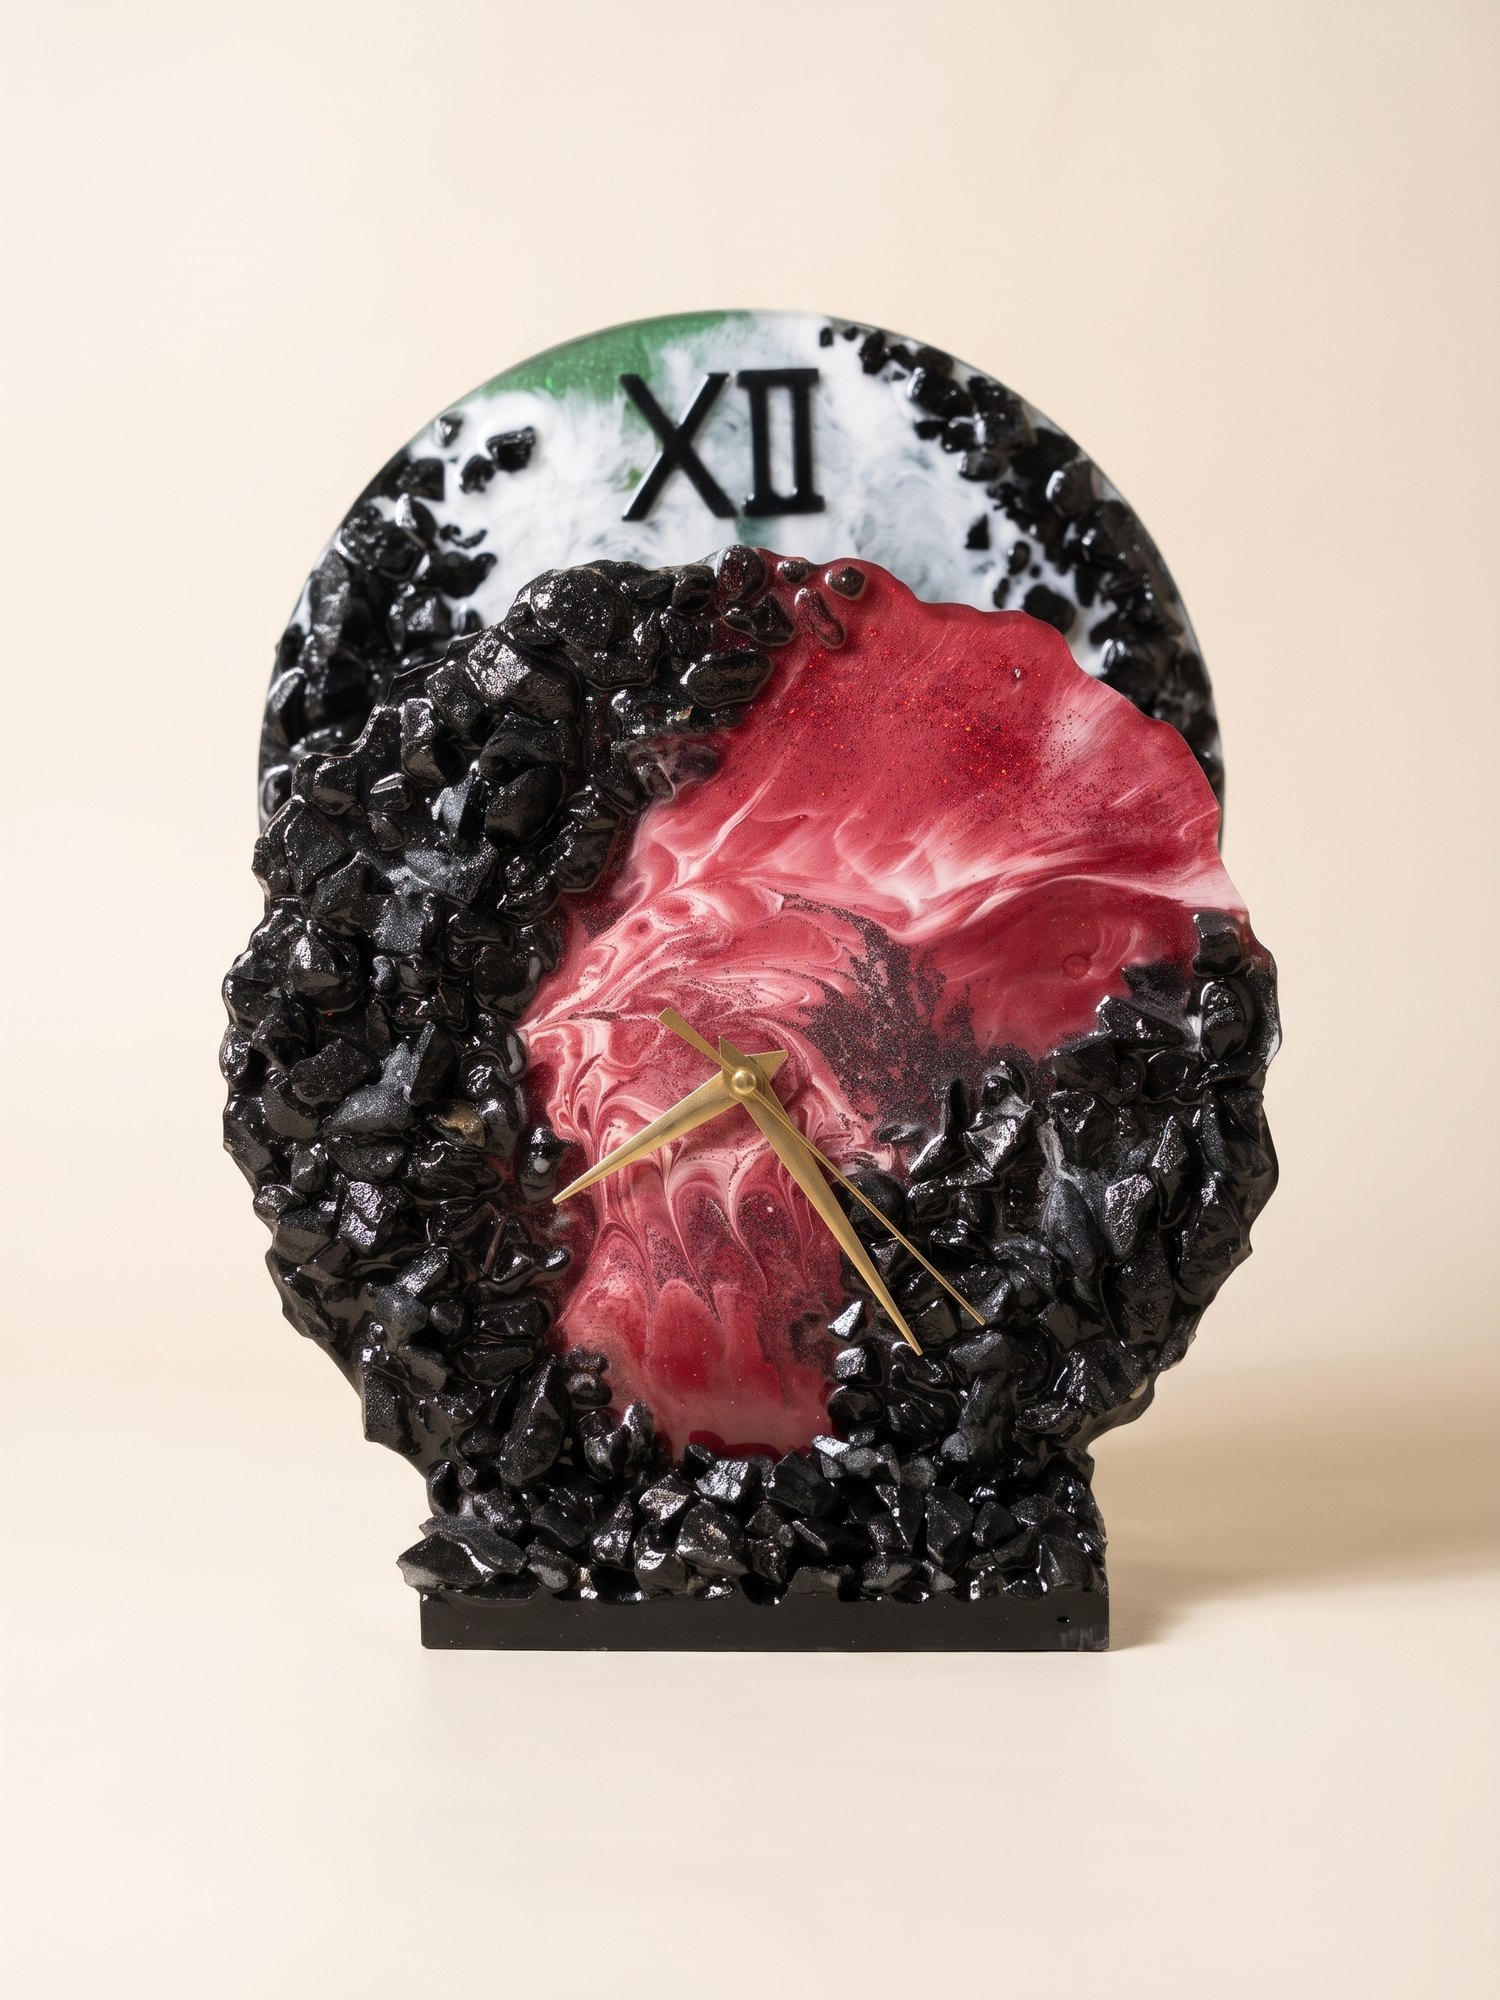
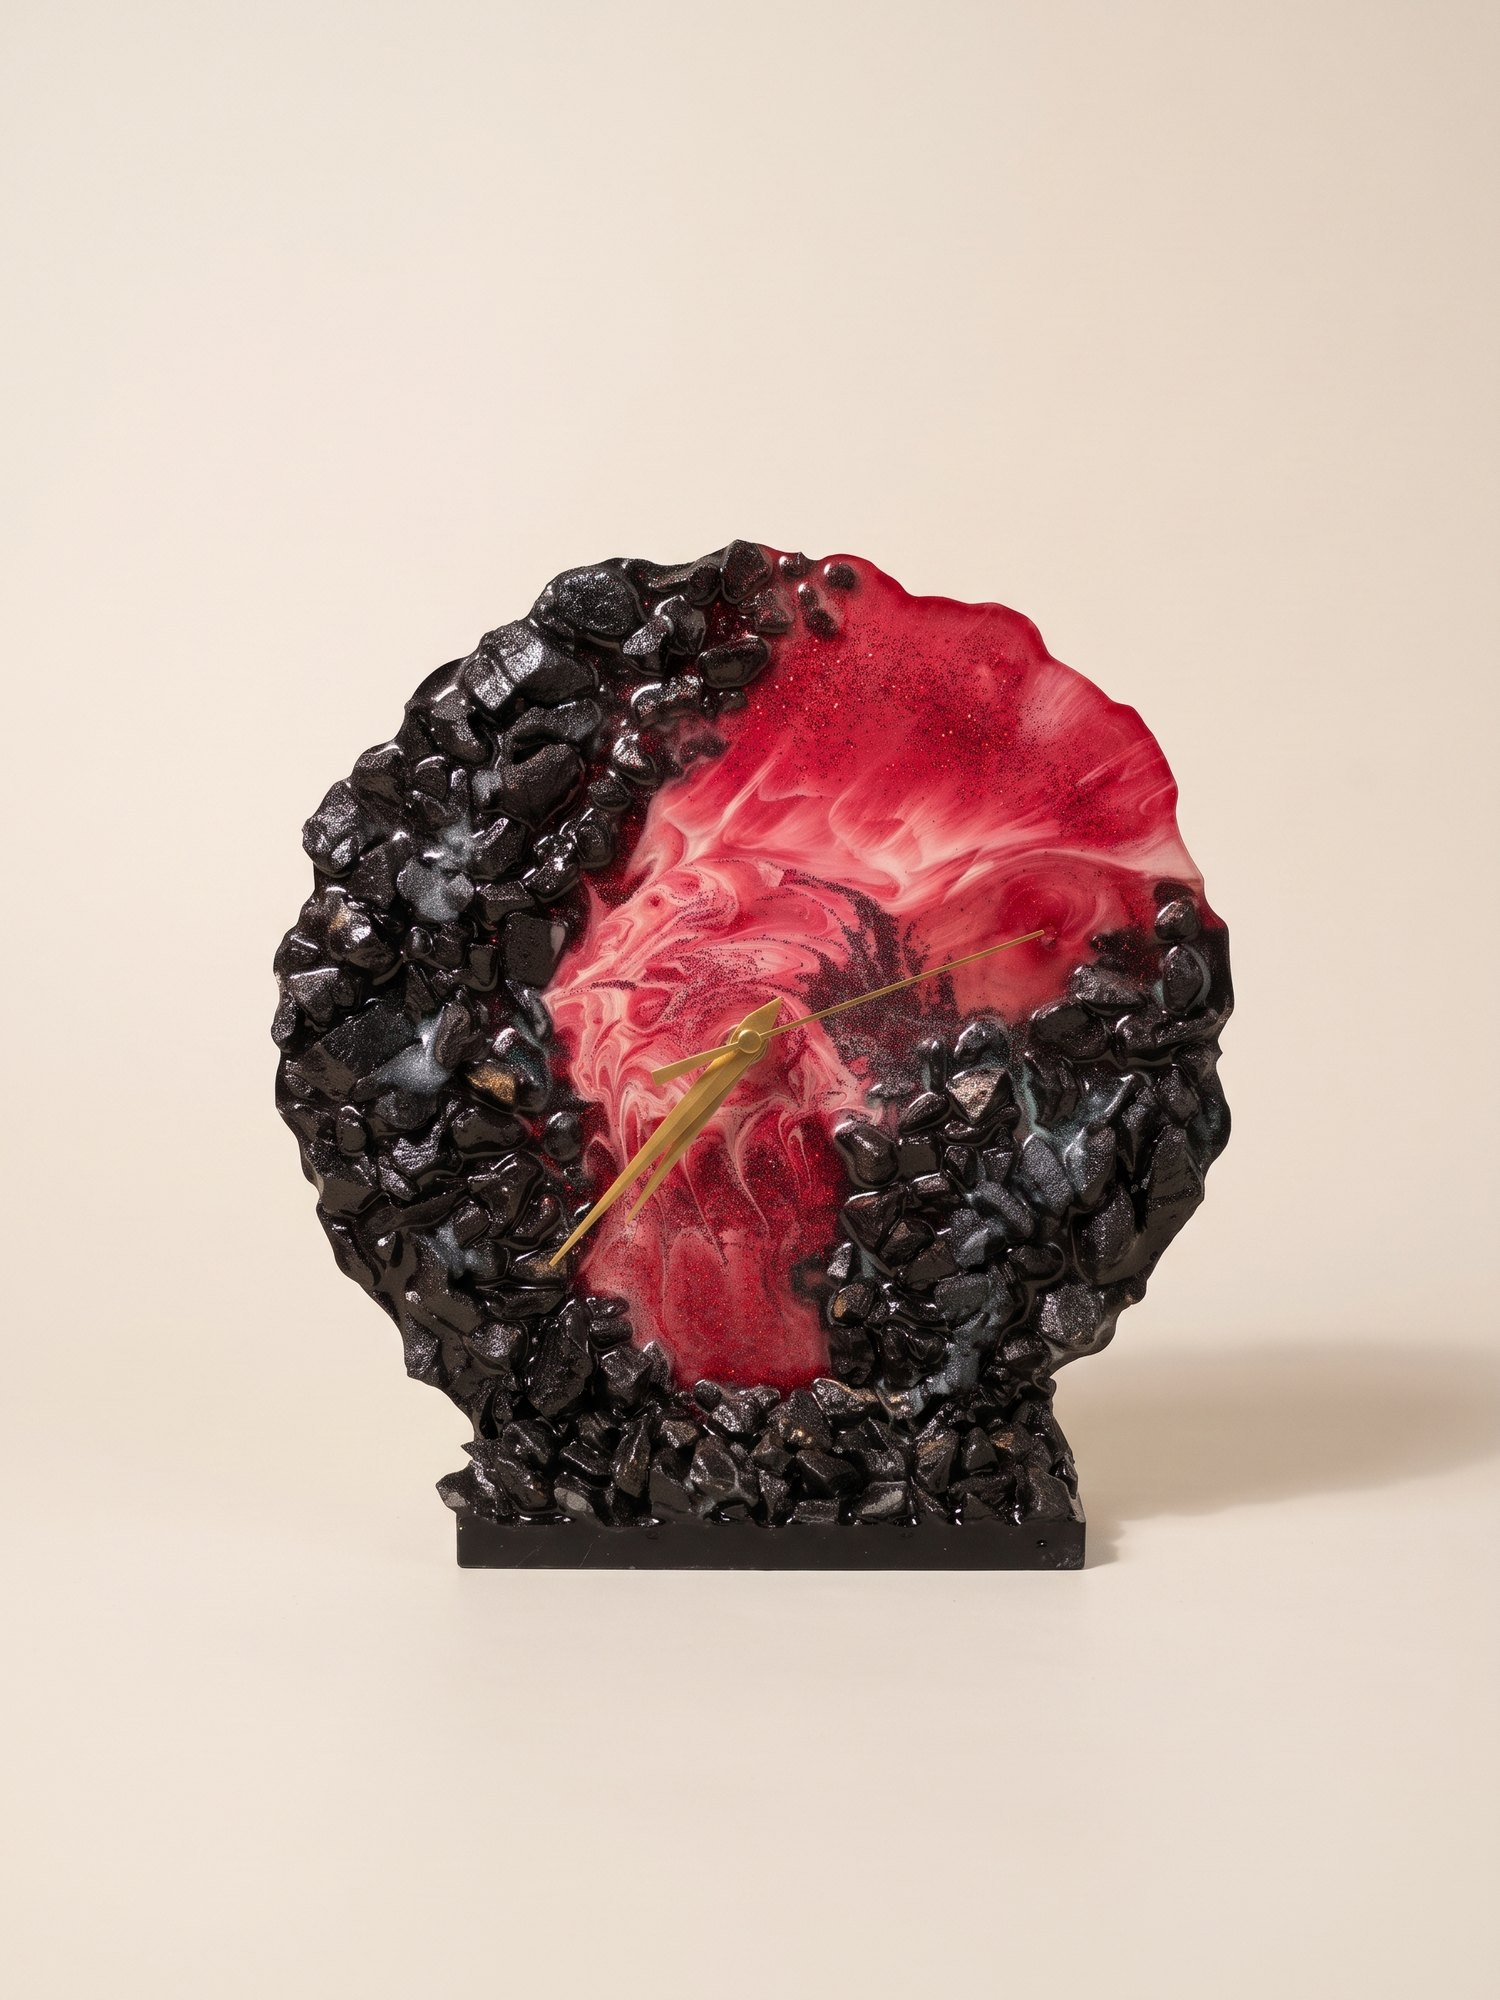
Replace generated designs with the real collection
Remove the five AI-invented placeholder clocks and add nine real pieces
(Žad, Mjesečina, Kronos, Biser, As, Meduza, Pomrčina, Krijesnice,
Pijesak) with studio shots made from the artist's photos. Rubin gets a
cleaner shot. Pomrčina and Krijesnice show both lit and unlit views.

Changed region(s): [[0.1227, 0.155, 1.0, 0.837]]

diff --git a/products.js b/products.js
@@ -52,64 +52,103 @@ window.TREN = {
       images: ["images/rubin-studio.jpg"],
     },
     {
-      id: "smaragd",
-      name: "Smaragd",
+      id: "zad",
+      name: "Žad",
       price: "",
       sold: false,
-      madeToOrder: true,
       desc: {
-        hr: "Okrugli sat od smaragdno zelene smole sa zlatnim žilama i polumjesecom crnog kamenja uz rub. Zlatne kazaljke i rimske brojke.",
-        en: "A round clock in emerald-green resin with gold veining and a crescent of black stones along the edge. Gold hands and Roman numerals.",
+        hr: "Stolni sat na postolju od tirkiznog stakla. Zelena i bijela smola, crno kamenje s obje strane. Crne rimske brojke i kazaljke.",
+        en: "A standing clock on a base of teal glass. Green and white resin with black stones down both sides. Black Roman numerals and hands.",
       },
-      images: ["images/smaragd-studio.jpg"],
+      images: ["images/zad-studio.jpg"],
     },
     {
-      id: "laguna",
-      name: "Laguna",
+      id: "mjesecina",
+      name: "Mjesečina",
       price: "",
       sold: false,
-      madeToOrder: true,
       desc: {
-        hr: "Tirkizno more s bijelom pjenom valova i pješčana obala s oblucima i školjkama. Bijele brojke i kazaljke.",
-        en: "A turquoise sea with white wave foam and a sandy shore with pebbles and shells. White numerals and hands.",
+        hr: "Zidni sat s punim mjesecom nad kobaltno plavim morem i tirkiznim granama. Crne rimske brojke i kazaljke, crvena sekundna kazaljka.",
+        en: "A wall clock with a full moon over a cobalt-blue sea and turquoise branches. Black Roman numerals and hands, red second hand.",
       },
-      images: ["images/laguna-studio.jpg"],
+      images: ["images/mjesecina-studio.jpg"],
     },
     {
-      id: "ametist",
-      name: "Ametist",
+      id: "kronos",
+      name: "Kronos",
       price: "",
       sold: false,
-      madeToOrder: true,
       desc: {
-        hr: "Sat u obliku presjeka geode: ljubičasta i bijela smola, prsten kristala i zlatni rub. Zlatne kazaljke, bez brojki.",
-        en: "A clock shaped like a geode slice: purple and white resin, a ring of crystals and a gold edge. Gold hands, no numerals.",
+        hr: "Zidni sat od crne smole sa zlatnim kapima, razlomljenim zlatnim brojčanikom, zupčanicima i zlatnim listićima. Zlatne kazaljke.",
+        en: "A wall clock in black resin with gold drips, a broken gold dial, gears and gold leaf. Gold hands.",
       },
-      images: ["images/ametist-studio.jpg"],
+      images: ["images/kronos-studio.jpg"],
     },
     {
-      id: "jantar",
-      name: "Jantar",
+      id: "biser",
+      name: "Biser",
       price: "",
       sold: false,
-      madeToOrder: true,
       desc: {
-        hr: "Ovalni stolni sat na crnom postolju. Smola boje jantara i meda s bakrenim listićima, uz rub tamno kamenje. Crne kazaljke.",
-        en: "An oval standing clock on a black base. Amber and honey resin with copper flakes, edged with dark stones. Black hands.",
+        hr: "Stolni sat od prozirne smole s valovitim rubom, zlatnom morskom zvijezdom i školjkama. Na postolju kristali i velika morska školjka. Crne kazaljke.",
+        en: "A standing clock in clear resin with a wavy edge, a gold starfish and shells. Crystals and a large seashell on the base. Black hands.",
       },
-      images: ["images/jantar-studio.jpg"],
+      images: ["images/biser-studio.jpg"],
     },
     {
-      id: "ponoc",
-      name: "Ponoć",
+      id: "as",
+      name: "As",
       price: "",
       sold: false,
-      madeToOrder: true,
       desc: {
-        hr: "Kvadratni sat od crne smole sa zlatnim listićima i bijelom bisernom rijekom, s bijelim kvarcom u kutu. Zlatne kazaljke.",
-        en: "A square clock in black resin with gold flakes and a river of white pearl, with white quartz in the corner. Gold hands.",
+        hr: "Stolni sat na crnom postolju. Mint zelena smola sa zlatnim žilama, četiri crna asa, kockice i crne perle. Crne rimske brojke i kazaljke.",
+        en: "A standing clock on a black base. Mint-green resin with gold veining, four black aces, dice and black beads. Black Roman numerals and hands.",
       },
-      images: ["images/ponoc-studio.jpg"],
+      images: ["images/as-studio.jpg"],
+    },
+    {
+      id: "meduza",
+      name: "Meduza",
+      price: "",
+      sold: false,
+      desc: {
+        hr: "Zidni sat na crnoj teksturiranoj podlozi: zlatna Meduza pod sjajnom smolom i reljefna zlatna zmija. Crni brojčanik sa zlatnim kazaljkama.",
+        en: "A wall clock on a black textured panel: a gold Medusa under glossy resin and a raised gold snake. Black dial with gold hands.",
+      },
+      images: ["images/meduza-studio.jpg"],
+    },
+    {
+      id: "pomrcina",
+      name: "Pomrčina",
+      price: "",
+      sold: false,
+      desc: {
+        hr: "Veliki zidni sat prekriven crnim kamenjem. Gore mjesečev brojčanik u zlatnom prstenu, dolje krug koji svijetli toplim zlatnim sjajem.",
+        en: "A large wall clock covered in black stones. A moon dial in a gold ring above, and below it a disc that lights up with a warm golden glow.",
+      },
+      images: ["images/pomrcina-svjetlo.jpg", "images/pomrcina-studio.jpg"],
+    },
+    {
+      id: "krijesnice",
+      name: "Krijesnice",
+      price: "",
+      sold: false,
+      desc: {
+        hr: "Zidna slika sa svjetlom: smaragdno zelena smola, spirala staklenih perli i fluorita te ugrađene lampice koje svijetle toplim sjajem.",
+        en: "Wall art with light: emerald-green resin, a spiral of glass beads and fluorite, and built-in lights with a warm glow.",
+      },
+      images: ["images/krijesnice-svjetlo.jpg", "images/krijesnice-studio.jpg"],
+    },
+    {
+      id: "pijesak",
+      name: "Pijesak",
+      price: "",
+      sold: false,
+      desc: {
+        hr: "Zidna slika: crna podloga, trake zlatnog pijeska i niz školjki u zlatu.",
+        en: "Wall art: a black panel with bands of gold sand and a line of gilded shells.",
+      },
+      images: ["images/pijesak-studio.jpg"],
     },
   ],
 };
